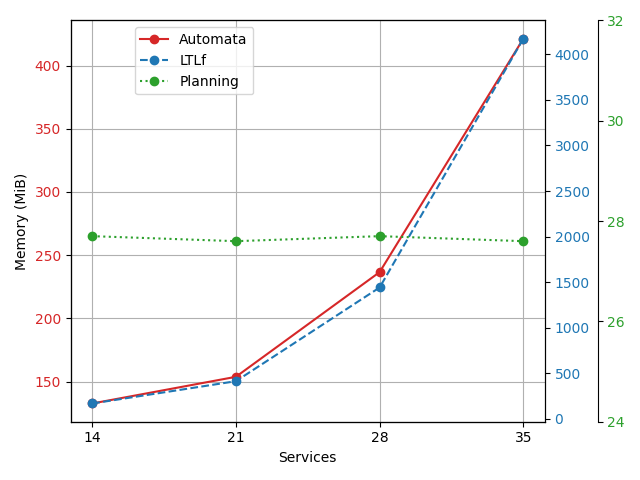
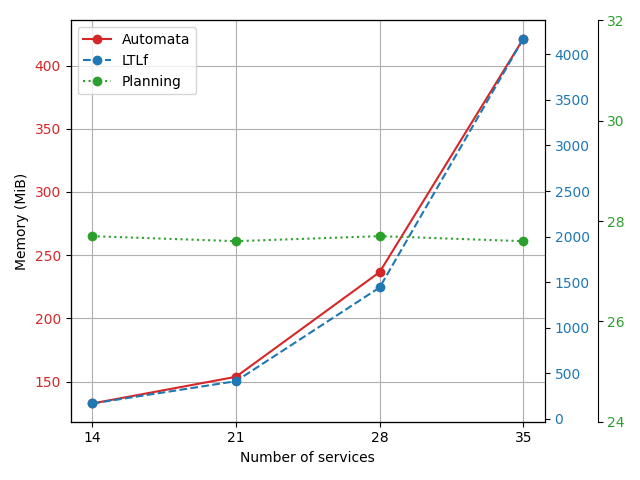
update all

Changed region(s): [[0.125, 0.0625, 0.4062, 0.1875], [0.375, 0.9375, 0.5938, 0.9688]]

diff --git a/cum_exp/plot_results.py b/cum_exp/plot_results.py
@@ -1,5 +1,6 @@
 import matplotlib.pyplot as plt
 import pandas as pd
+import numpy as np
 
 if __name__ == "__main__":
     df_mdp = pd.read_csv("chip_mdp.csv")
@@ -38,7 +39,7 @@ if __name__ == "__main__":
     color = 'tab:red'
     lns1 = ax1.plot(services, mems['automata'], '-o', color=color, label='Automata', linestyle=line_styles_mem[0])
     ax1.set_xticks(services)
-    ax1.set_xlabel('Services')
+    ax1.set_xlabel('Number of services')
     ax1.set_ylabel('Memory (MiB)')
     ax1.tick_params(axis='y', labelcolor=color)
 
@@ -52,14 +53,13 @@ if __name__ == "__main__":
     ax3 = ax1.twinx()
     ax3.spines['right'].set_position(('outward', 38))  # Move the third axis outward
     lns3 = ax3.plot(services, mems['plan'], '-o', color=color, label='Planning', linestyle=line_styles_mem[2])
-    #set y axis values
     ax3.set_yticks(list(range(24, 34, 2)))
     ax3.set_ylabel('')
     ax3.tick_params(axis='y', labelcolor=color)
 
     lns = lns1+lns2+lns3
     labs = [l.get_label() for l in lns]
-    ax1.legend(lns, labs, loc=0, bbox_to_anchor=(0.4, 1.0))
+    ax1.legend(lns, labs, loc=0)#, bbox_to_anchor=(0.4, 1.0))
     ax1.grid()
     fig.tight_layout()  # otherwise the right y-label is slightly clipped
     plt.savefig(f'mem_usage_{case_study}.png')
@@ -81,7 +81,7 @@ if __name__ == "__main__":
     color = 'tab:red'
     lns1 = ax1.plot(services, tot_time_automata, '-o', color=color, label='Automata', linestyle=line_styles_tim[0])
     ax1.set_xticks(services)
-    ax1.set_xlabel('Services')
+    ax1.set_xlabel('Number of services')
     ax1.set_ylabel('Time (s)')
     ax1.tick_params(axis='y', labelcolor=color)
 
@@ -95,6 +95,7 @@ if __name__ == "__main__":
     ax3 = ax1.twinx()
     ax3.spines['right'].set_position(('outward', 38))  # Move the third axis outward
     lns3 = ax3.plot(services, times_comp['plan'], '-o', color=color, label='Planning', linestyle=line_styles_tim[2])
+    ax3.set_yticks(list(np.arange(0.4, 1.1, 0.1)))
     ax3.set_ylabel('')
     ax3.tick_params(axis='y', labelcolor=color)
 

diff --git a/README.md b/README.md
@@ -1,1 +1,88 @@
-# TSC-planning-experiments
+# Orchestration of services in Smart Manufacturing through automated synthesis - Deterministic instance planning approach
+
+Repository containing the case studies and the experimental results of the deterministic instance planning approach (classical planning) for the paper "Orchestration of services in Smart Manufacturing through automated synthesis".
+
+## Experiments
+
+The experiments can be replicated using Docker.
+
+### Use the Docker image
+
+1. Build the image from the [Dockerfile](Dockerfile):
+  ```sh
+  docker build -t planning_controller .
+  ```
+
+2. Run a new container and open a terminal from the created image:
+  ```sh
+  docker run planning_controller bash
+  ```
+
+3. Set up the configuration file needed for the controller.
+
+4. Run the controller:
+  ```sh
+  python3 main.py 
+  ```
+
+5. When the controller finishes its execution, it produces two log files (for each run) in the `experimental_results` folder. These files represent:
+- `<timestamp>_profiling_<case_study>_<size>`: contains the time consumption of the plan computation
+- `<timestamp>_profiling_downward_<case_study>_<size>`: contains the memory consumption of the plan computation
+
+#### Configuration file
+The configuration file  `config.json` contains basic information needed to run the experiments. 
+
+It contains the basic information needed to run the experiments. The JSON key ``mode`` accept the values ``[plan]`` (it can be skipped), the key ``size`` accepts ``[xsmall, small, medium, large]`` values (related to the number of involved actors), the key `case_study` accepts ``["chip", "ceramic", "motor]`` values which serve to indicate which case study to use, the key `path_desc` can be skipped as it indicates to the Industrial API where the case study descriptions are.
+
+An example with information of the key-value pairs is given below.
+```json
+{
+    "mode": "plan",
+    "size": "xsmall",
+    "case_study": "chip",
+    "path_desc": "src"
+}
+```
+
+## Evaluation Results
+
+Evaluation results of the experiments can be found in [eval_utils](eval_utils/). The [experimental_results.csv](eval_utils/experimental_results.csv) file contains the aggregated results of the memory and time consumption for the three case studies.
+
+
+### Chip case study
+
+#### Memory consumption
+![memory chip](eval_utils/memory_consumption_chip.png)
+
+#### Time consumption
+![time chip](eval_utils/time_consumption_chip.png)
+
+
+
+### Ceramic case study
+
+#### Memory consumption
+![memory ceramic](eval_utils/memory_consumption_ceramic.png)
+
+#### Time consumption
+![time ceramic](eval_utils/time_consumption_ceramic.png)
+
+
+### Motor case study
+
+#### Memory consumption
+![memory motor](eval_utils/memory_consumption_motor.png)
+
+#### Time consumption
+![time motor](eval_utils/time_consumption_motor.png)
+
+
+## Comulative Experimental Results
+
+Comulative results (including also policy-based approachs) are available in [cum_exp](cum_exp).
+
+#### Time consumption
+![time chip](cum_exp/exe_time_chip.png)
+
+#### Memory consumption
+![mem chip](cum_exp/mem_usage_chip.png)
